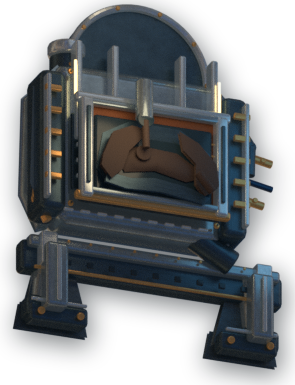
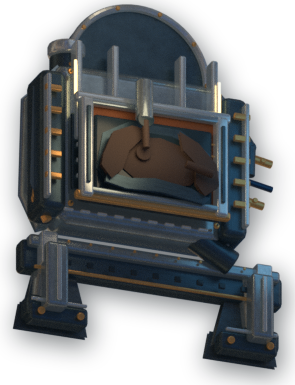
Shape smelting charge as a broad collection pool

Changed region(s): [[0.4881, 0.3429, 0.6407, 0.4364], [0.3966, 0.4364, 0.6407, 0.4987]]

diff --git a/space-battleship/assets/ui/reactor/b01/generate_reactor_devices.py b/space-battleship/assets/ui/reactor/b01/generate_reactor_devices.py
@@ -629,11 +629,14 @@ def smelting(spec,m):
     # The charge is collected in a broad recessed vessel.  Its exposed liquid
     # surface is much wider than the feed stream, and the dark raised shore
     # gives it a visible wall instead of letting the orange read as tubing.
-    cast_plate("cold catch floor",[(129,546),(137,527),(157,521),(202,521),
-               (226,537),(232,557),(217,568),(177,563),(140,564)],91,3,m["black"],2)
-    molten_bath("molten collection bath",[(137,545),(145,534),(164,529),
-                (201,531),(219,542),(225,555),(211,561),(177,554),
-                (145,560)],m["orange_lit"])
+    cast_plate("cold catch floor",[(126,548),(134,524),(156,514),(196,514),
+               (225,525),(236,546),(231,566),(211,577),(170,575),
+               (138,566)],91,3,m["black"],2)
+    # The exposed charge is a deep vessel surface, not a long curved stripe.
+    # Its short right-hand tap leaves the broad pool legible at page scale.
+    molten_bath("molten collection bath",[(135,550),(140,531),(158,520),
+                (184,517),(210,524),(224,538),(226,552),(215,564),
+                (188,569),(157,566)],m["orange_lit"])
     cast_plate("left refractory bank",[(122,547),(132,522),(151,513),
                (166,515),(146,538),(139,559),(129,569),(120,558)],98,5,m["slag"],2)
     cast_plate("right refractory bank",[(204,513),(221,521),(239,540),
@@ -645,7 +648,7 @@ def smelting(spec,m):
     cast_plate("front refractory sill",[(127,566),(151,569),(177,565),
                (215,570),(232,577),(228,581),(183,575),(146,577),
                (126,573)],95,4,m["dark"],2)
-    rod("molten tap spill",(218,556),(234,574),4.4,109,m["orange_lit"],12)
+    rod("molten tap spill",(205,548),(234,555),4.2,109,m["orange_lit"],12)
     for sx in (-1,1):
         cube("refractory throat jamb",179+sx*72,536,13,108,13,86,m["silver"],3)
         cube("jamb black heat slot",179+sx*72,535,4,84,3,94,m["dark"],1)
